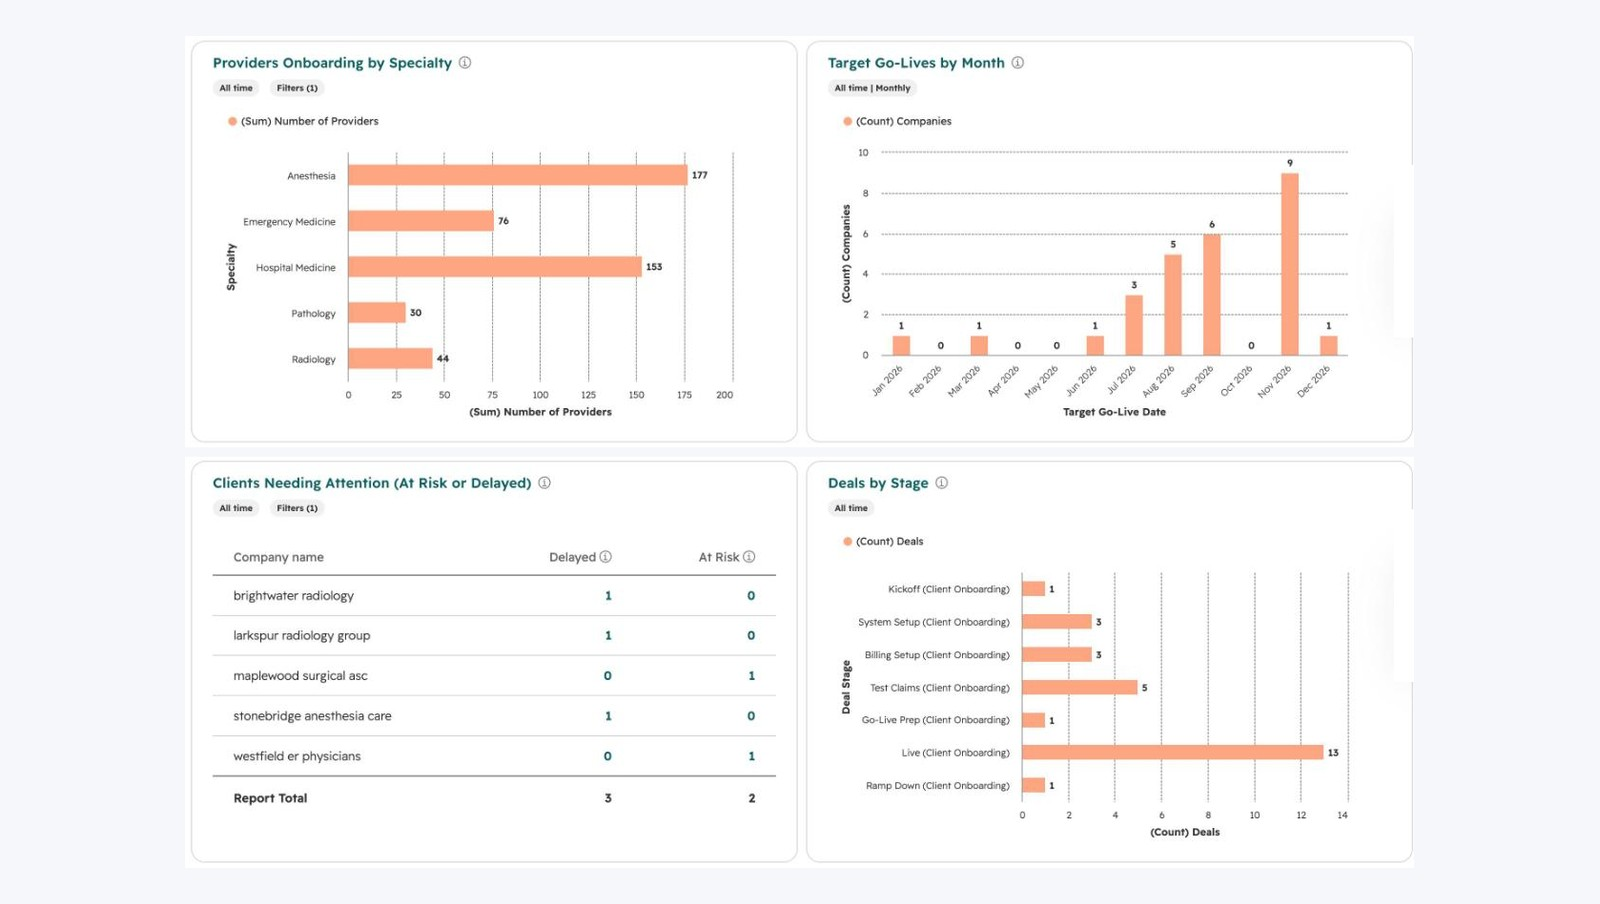
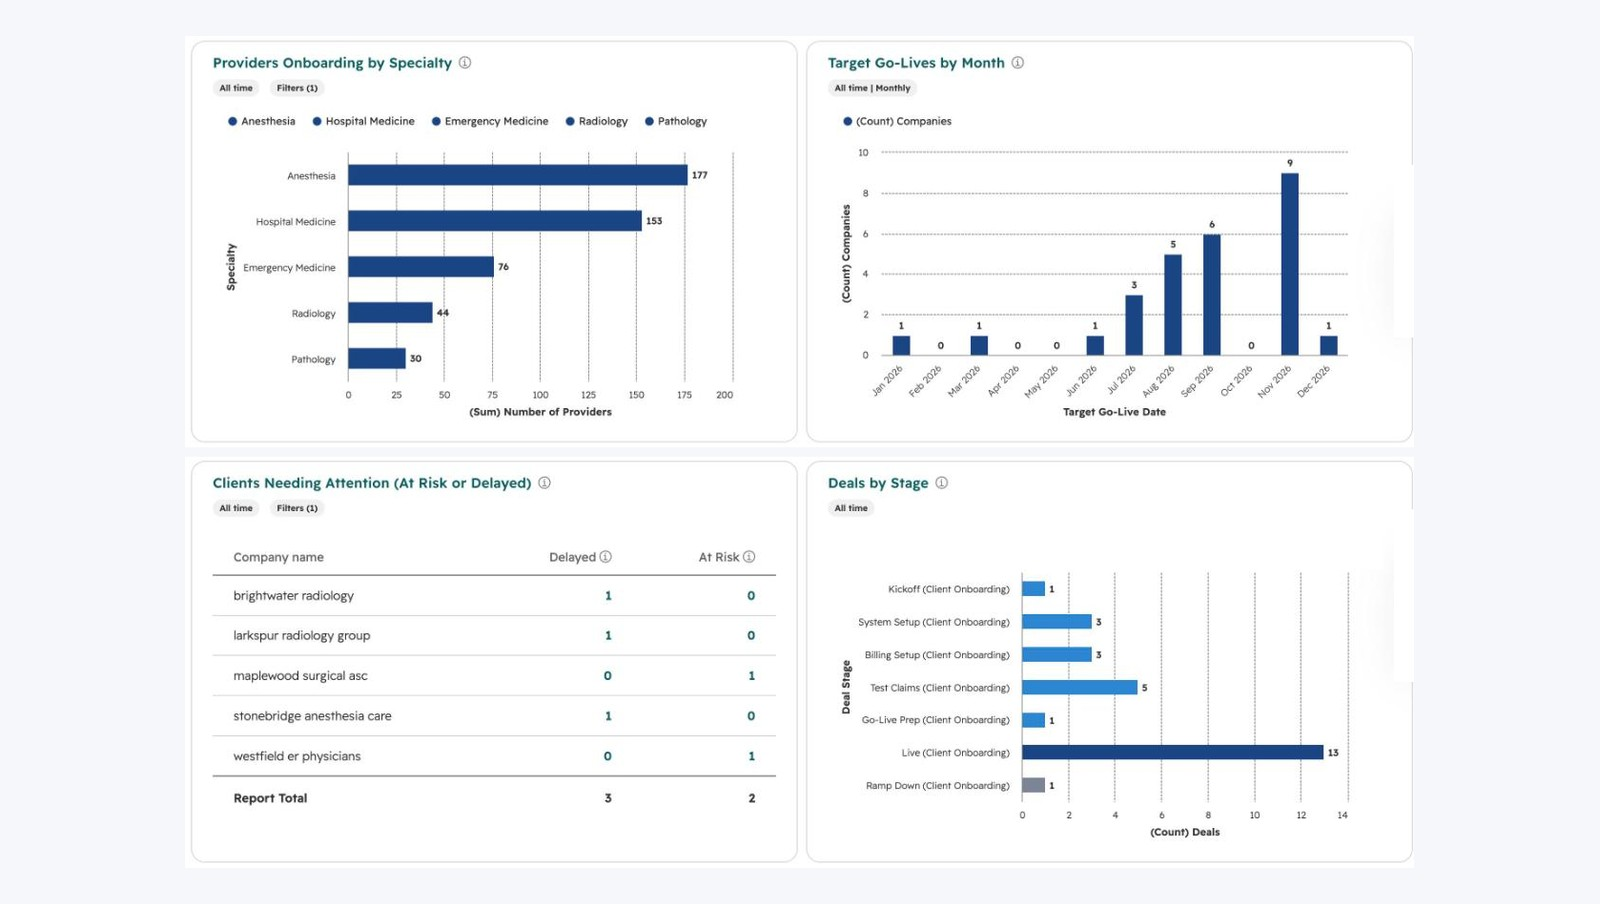
HubSpot project: brand-coloured dashboard screenshots
Claude-Session: https://claude.ai/code/session_01RPg2j8vdC39D1Uqaa2JYmb

diff --git a/lib/projects.tsx b/lib/projects.tsx
@@ -717,6 +717,7 @@ export const projects: Project[] = [
             "Clients by Onboarding Status, filtered to clients with a status so the total is exactly 27",
             "Specialist Workload, stacked by status, to show each person's mix of live and at-risk work",
             "Built from report templates and customised: measure, dimension, filters and chart type",
+            "One colour scheme on every chart that shows status: navy for Live, blue for On Track, orange for At Risk, light orange for Delayed and grey for Not Started and Ramp Down",
           ],
           reads: [
             ["13", "of 27 clients are live (48%)"],
@@ -730,7 +731,7 @@ export const projects: Project[] = [
           q: "How big is the work, when does it land, and which clients need help?",
           body: "The lower half of the dashboard. Providers by specialty, go-lives by target month, a watchlist of at-risk and delayed clients, and deals by pipeline stage.",
           list: [
-            "Providers by specialty uses a sum, not a count, because providers drive the work",
+            "Providers by specialty uses a sum, not a count, because providers drive the work, sorted largest first",
             "Go-lives grouped by Target Go-Live Date, month by month",
             "Watchlist filtered to At Risk and Delayed",
             "Deals by stage set to all time so it doesn't empty out next month",
